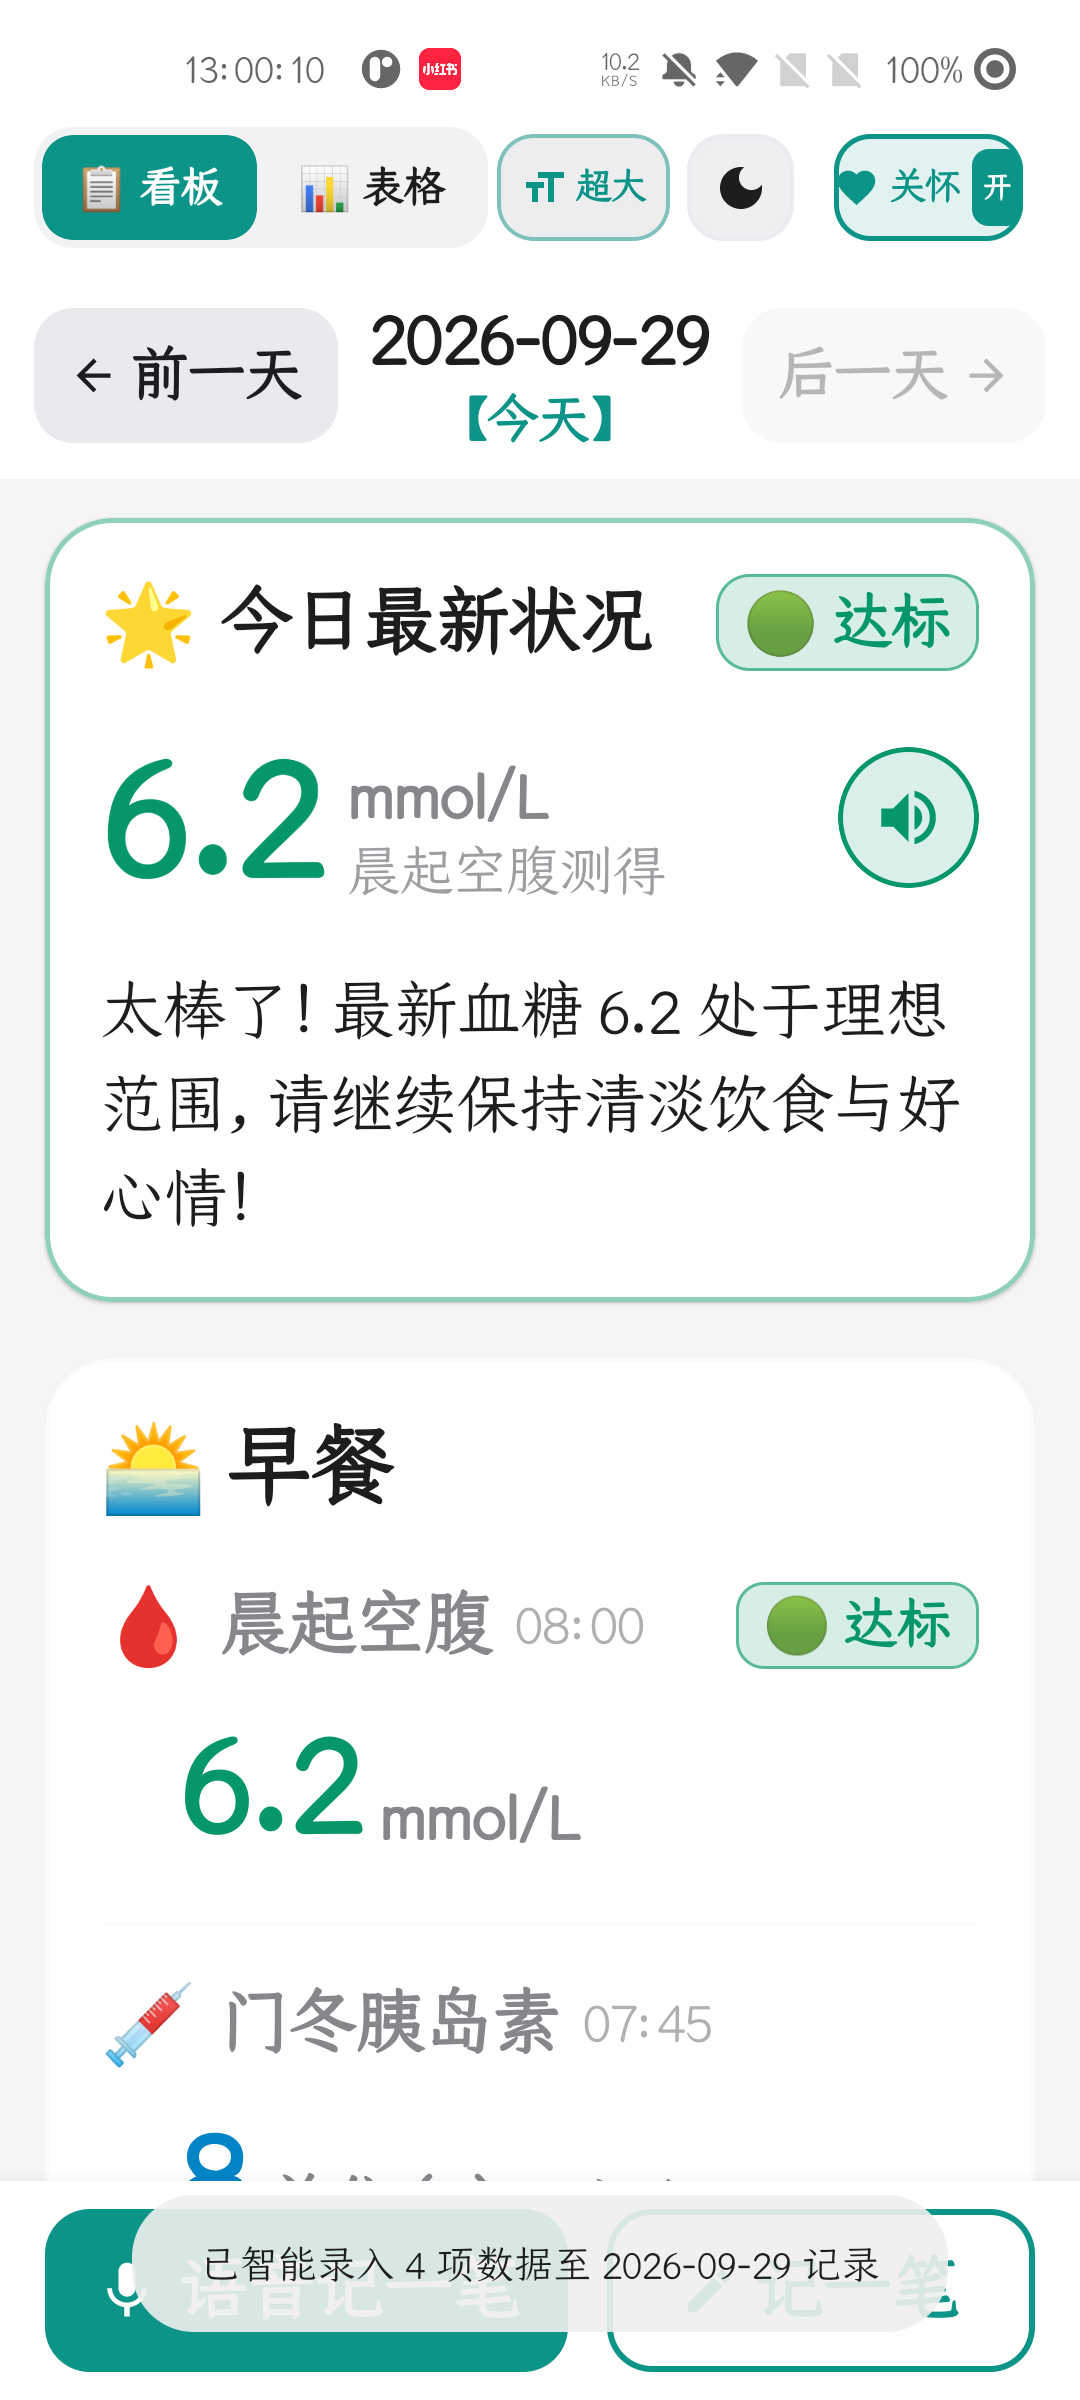
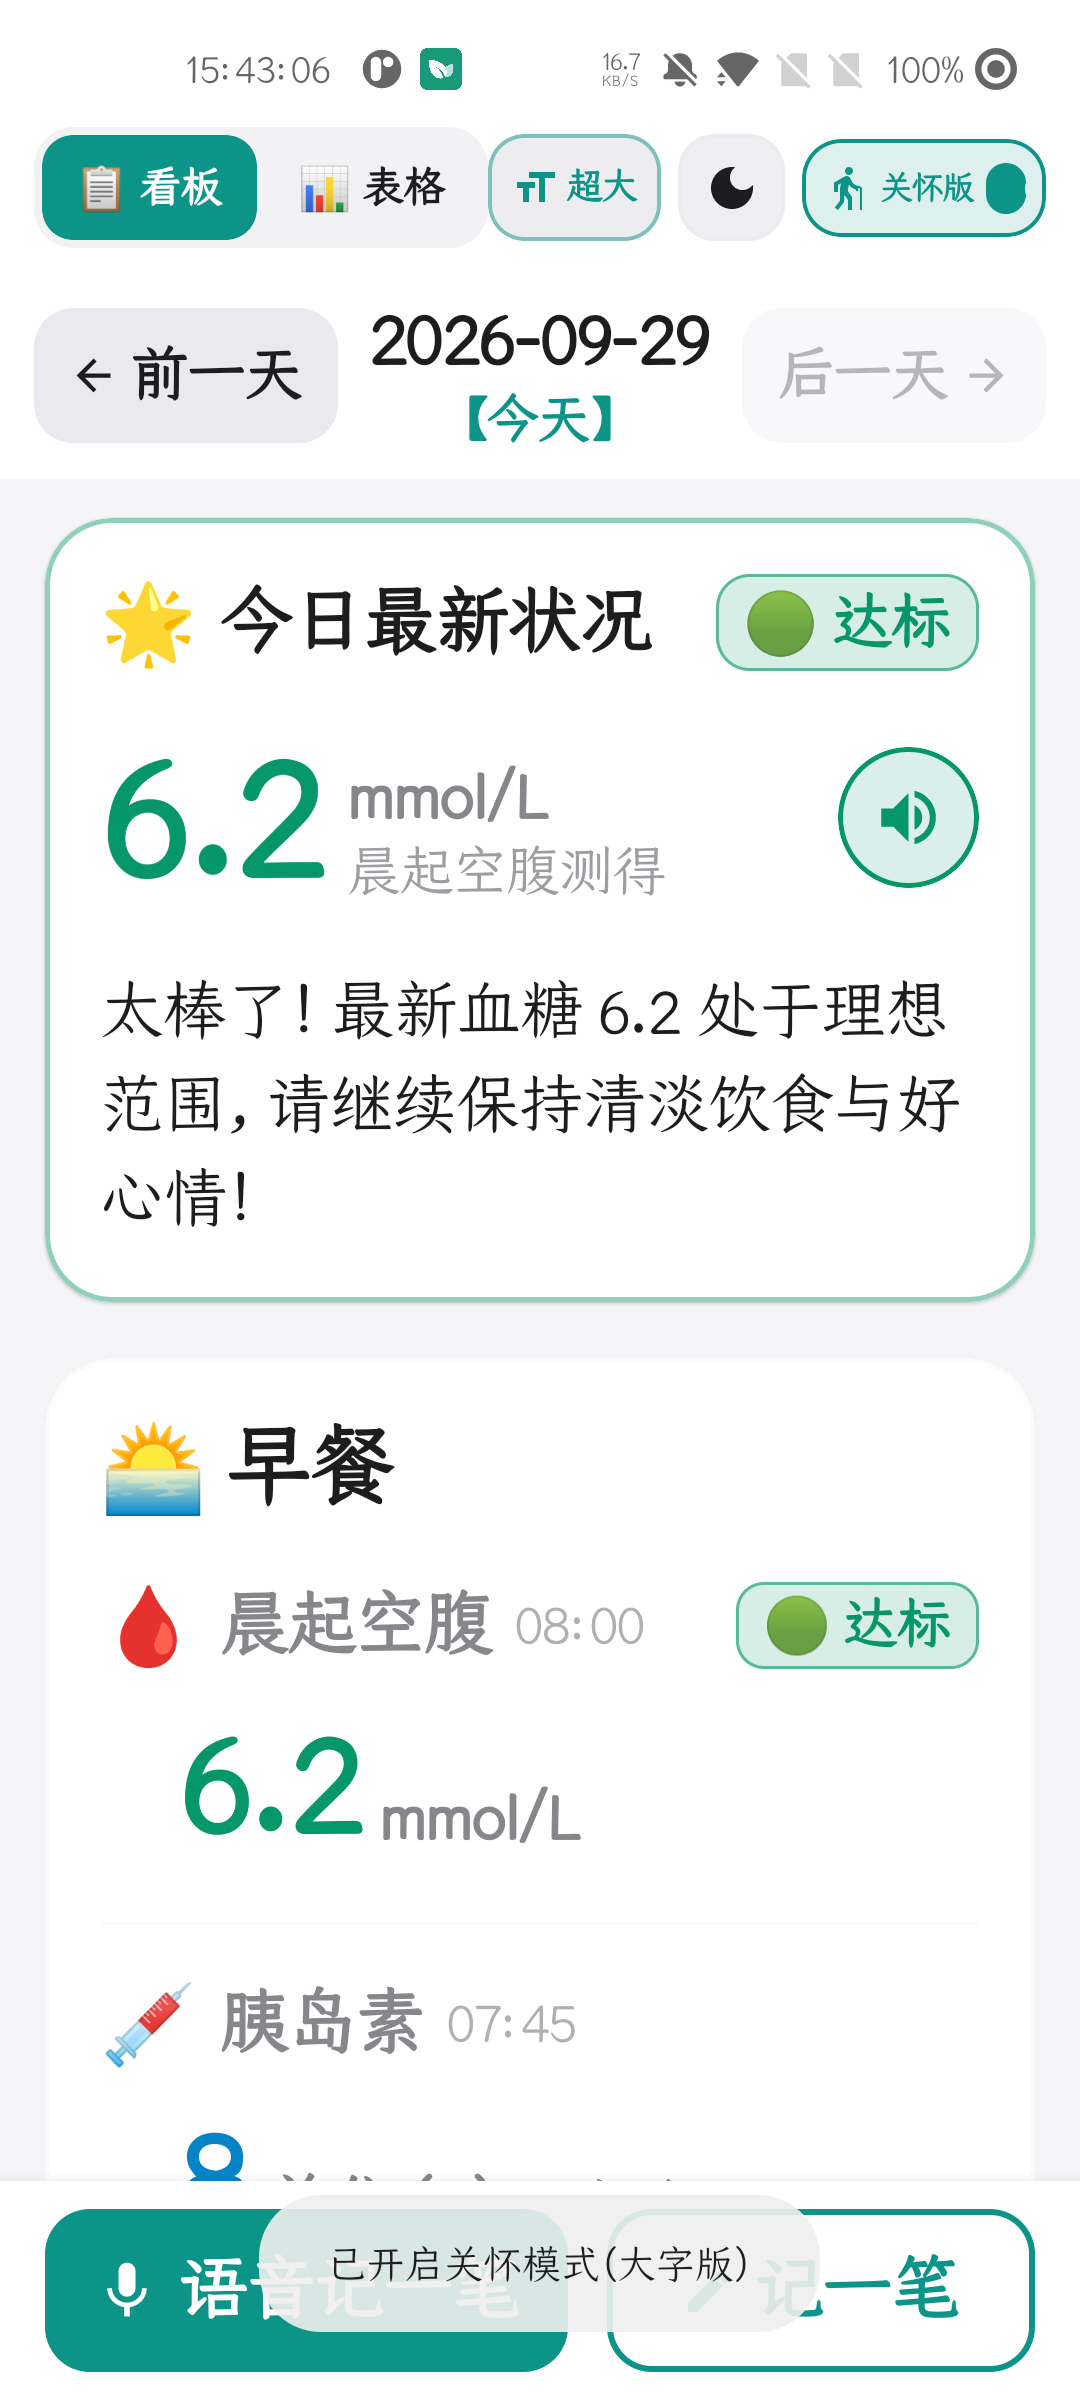
fix(care-mode): 彻底重构关怀模式双模滑动开关，统一长者图标与物理滑块开闭状态动效

diff --git a/app/src/main/java/com/example/ui/components/DialogCommonComponents.kt b/app/src/main/java/com/example/ui/components/DialogCommonComponents.kt
@@ -23,17 +23,22 @@ import androidx.compose.foundation.layout.offset
 import androidx.compose.foundation.layout.padding
 import androidx.compose.foundation.layout.size
 import androidx.compose.foundation.layout.width
+import androidx.compose.animation.core.animateDpAsState
 import androidx.compose.foundation.lazy.LazyRow
 import androidx.compose.foundation.lazy.items
+import androidx.compose.foundation.shape.CircleShape
 import androidx.compose.foundation.shape.RoundedCornerShape
 import androidx.compose.material.icons.Icons
 import androidx.compose.material.icons.filled.Close
+import androidx.compose.material.icons.filled.Elderly
 import androidx.compose.material3.CircularProgressIndicator
 import androidx.compose.material3.Icon
 import androidx.compose.material3.IconButton
 import androidx.compose.material3.MaterialTheme
 import androidx.compose.material3.Surface
 import androidx.compose.material3.Text
+import androidx.compose.ui.hapticfeedback.HapticFeedbackType
+import androidx.compose.ui.platform.LocalHapticFeedback
 import androidx.compose.runtime.Composable
 import androidx.compose.runtime.getValue
 import androidx.compose.runtime.remember
@@ -665,3 +670,76 @@ fun ImageSourcePickerDialog(
     }
 }
 
+/**
+ * 关怀模式物理状态滑动开关（统一双模交互，带长者图标与平滑滑块）
+ */
+@Composable
+fun CareModeToggleSwitch(
+    isCareMode: Boolean,
+    onToggle: () -> Unit,
+    modifier: Modifier = Modifier
+) {
+    val haptic = LocalHapticFeedback.current
+    val thumbOffset by animateDpAsState(
+        targetValue = if (isCareMode) 14.dp else 2.dp,
+        animationSpec = spring(dampingRatio = 0.8f, stiffness = Spring.StiffnessMedium),
+        label = "thumbOffset"
+    )
+    val trackColor by animateColorAsState(
+        targetValue = if (isCareMode) TealPrimary else MaterialTheme.colorScheme.outline.copy(alpha = 0.35f),
+        label = "trackColor"
+    )
+
+    Surface(
+        shape = RoundedCornerShape(14.dp),
+        color = if (isCareMode) TealPrimary.copy(alpha = 0.14f) else MaterialTheme.colorScheme.surfaceVariant.copy(alpha = 0.5f),
+        border = BorderStroke(
+            width = 1.2.dp,
+            color = if (isCareMode) TealPrimary else MaterialTheme.colorScheme.outline.copy(alpha = 0.3f)
+        ),
+        modifier = modifier
+            .height(35.dp)
+            .clip(RoundedCornerShape(14.dp))
+            .clickable {
+                haptic.performHapticFeedback(HapticFeedbackType.TextHandleMove)
+                onToggle()
+            }
+    ) {
+        Row(
+            modifier = Modifier.padding(horizontal = 7.dp, vertical = 2.dp),
+            verticalAlignment = Alignment.CenterVertically,
+            horizontalArrangement = Arrangement.spacedBy(4.dp)
+        ) {
+            Icon(
+                imageVector = Icons.Default.Elderly,
+                contentDescription = if (isCareMode) "关怀模式开（点击切回标准版）" else "关怀模式关（点击开启）",
+                tint = if (isCareMode) TealPrimary else MaterialTheme.colorScheme.onSurfaceVariant,
+                modifier = Modifier.size(17.dp)
+            )
+            Text(
+                text = "关怀版",
+                fontSize = 11.5.sp,
+                fontWeight = FontWeight.Bold,
+                color = if (isCareMode) TealPrimary else MaterialTheme.colorScheme.onSurfaceVariant
+            )
+            // 真实物理滑动开关轨道
+            Box(
+                modifier = Modifier
+                    .width(30.dp)
+                    .height(18.dp)
+                    .clip(RoundedCornerShape(9.dp))
+                    .background(trackColor),
+                contentAlignment = Alignment.CenterStart
+            ) {
+                Box(
+                    modifier = Modifier
+                        .offset(x = thumbOffset)
+                        .size(14.dp)
+                        .clip(CircleShape)
+                        .background(Color.White)
+                        .shadow(1.dp, CircleShape)
+                )
+            }
+        }
+    }
+}

diff --git a/app/src/main/java/com/example/ui/InsulinTrackerScreen.kt b/app/src/main/java/com/example/ui/InsulinTrackerScreen.kt
@@ -118,6 +118,7 @@ import androidx.compose.material3.CardDefaults
 import androidx.compose.ui.draw.blur
 import androidx.compose.foundation.layout.widthIn
 import com.example.ui.components.FrostedGlassDialogOverlay
+import com.example.ui.components.CareModeToggleSwitch
 import androidx.compose.ui.Alignment
 import androidx.compose.ui.Modifier
 import androidx.compose.ui.draw.clip
@@ -435,33 +436,12 @@ fun InsulinTrackerScreen(
                             horizontalArrangement = Arrangement.spacedBy(4.dp)
                         ) {
                             // 关怀模式开关（适老版大字模式，位于日夜切换左侧）
-                            Surface(
-                                shape = ApplePillShape,
-                                color = if (isCareMode) TealPrimary.copy(alpha = 0.18f) else MaterialTheme.colorScheme.surfaceVariant.copy(alpha = 0.5f),
-                                modifier = Modifier
-                                    .clip(ApplePillShape)
-                                    .clickable { viewModel.toggleCareMode() }
-                                    .testTag("care_mode_toggle_button")
-                            ) {
-                                Row(
-                                    modifier = Modifier.padding(horizontal = 8.dp, vertical = 4.dp),
-                                    verticalAlignment = Alignment.CenterVertically,
-                                    horizontalArrangement = Arrangement.spacedBy(3.dp)
-                                ) {
-                                    Icon(
-                                        imageVector = Icons.Default.Elderly,
-                                        contentDescription = "切换关怀模式",
-                                        tint = if (isCareMode) TealPrimary else MaterialTheme.colorScheme.onSurfaceVariant,
-                                        modifier = Modifier.size(15.dp)
-                                    )
-                                    Text(
-                                        text = "关怀版",
-                                        fontSize = 11.5.sp,
-                                        fontWeight = FontWeight.SemiBold,
-                                        color = if (isCareMode) TealPrimary else MaterialTheme.colorScheme.onSurfaceVariant
-                                    )
-                                }
-                            }
+                            CareModeToggleSwitch(
+                                isCareMode = isCareMode,
+                                onToggle = { viewModel.toggleCareMode() },
+                                modifier = Modifier.testTag("care_mode_toggle_button")
+                            )
+
 
                             // 1. Manual Theme Switcher Button
                             val (themeIcon, themeDesc) = when (themeMode) {

diff --git a/app/src/main/java/com/example/ui/components/CareHomeView.kt b/app/src/main/java/com/example/ui/components/CareHomeView.kt
@@ -547,50 +547,15 @@ private fun CareTopBar(
                     }
                 }
 
-                // 关怀模式图标开关（替代原单字“退出”按钮，彻底消除退出程序的歧义）
-                Surface(
-                    shape = RoundedCornerShape(13.dp),
-                    color = TealPrimary.copy(alpha = 0.12f),
-                    border = BorderStroke(1.5.dp, TealPrimary),
-                    modifier = Modifier
-                        .height(38.dp)
-                        .clip(RoundedCornerShape(13.dp))
-                        .clickable(onClick = onExitCareMode)
-                        .padding(horizontal = 8.dp)
-                ) {
-                    Row(
-                        verticalAlignment = Alignment.CenterVertically,
-                        horizontalArrangement = Arrangement.spacedBy(4.dp)
-                    ) {
-                        Icon(
-                            imageVector = Icons.Default.Favorite,
-                            contentDescription = "关怀模式开关（当前开启，点击切回标准版）",
-                            tint = TealPrimary,
-                            modifier = Modifier.size(16.dp)
-                        )
-                        Text(
-                            text = "关怀",
-                            fontSize = 13.sp,
-                            fontWeight = FontWeight.Bold,
-                            color = TealPrimary
-                        )
-                        Surface(
-                            shape = RoundedCornerShape(6.dp),
-                            color = TealPrimary
-                        ) {
-                            Text(
-                                text = "开",
-                                fontSize = 10.5.sp,
-                                fontWeight = FontWeight.ExtraBold,
-                                color = Color.White,
-                                modifier = Modifier.padding(horizontal = 4.dp, vertical = 1.dp)
-                            )
-                        }
-                    }
-                }
+                // 关怀模式图标开关（带物理滑块动效与长者图标）
+                CareModeToggleSwitch(
+                    isCareMode = true,
+                    onToggle = onExitCareMode
+                )
             }
         }
     }
+
 
     if (showFontSizeDialog) {
         CareFontSizeDialog(
